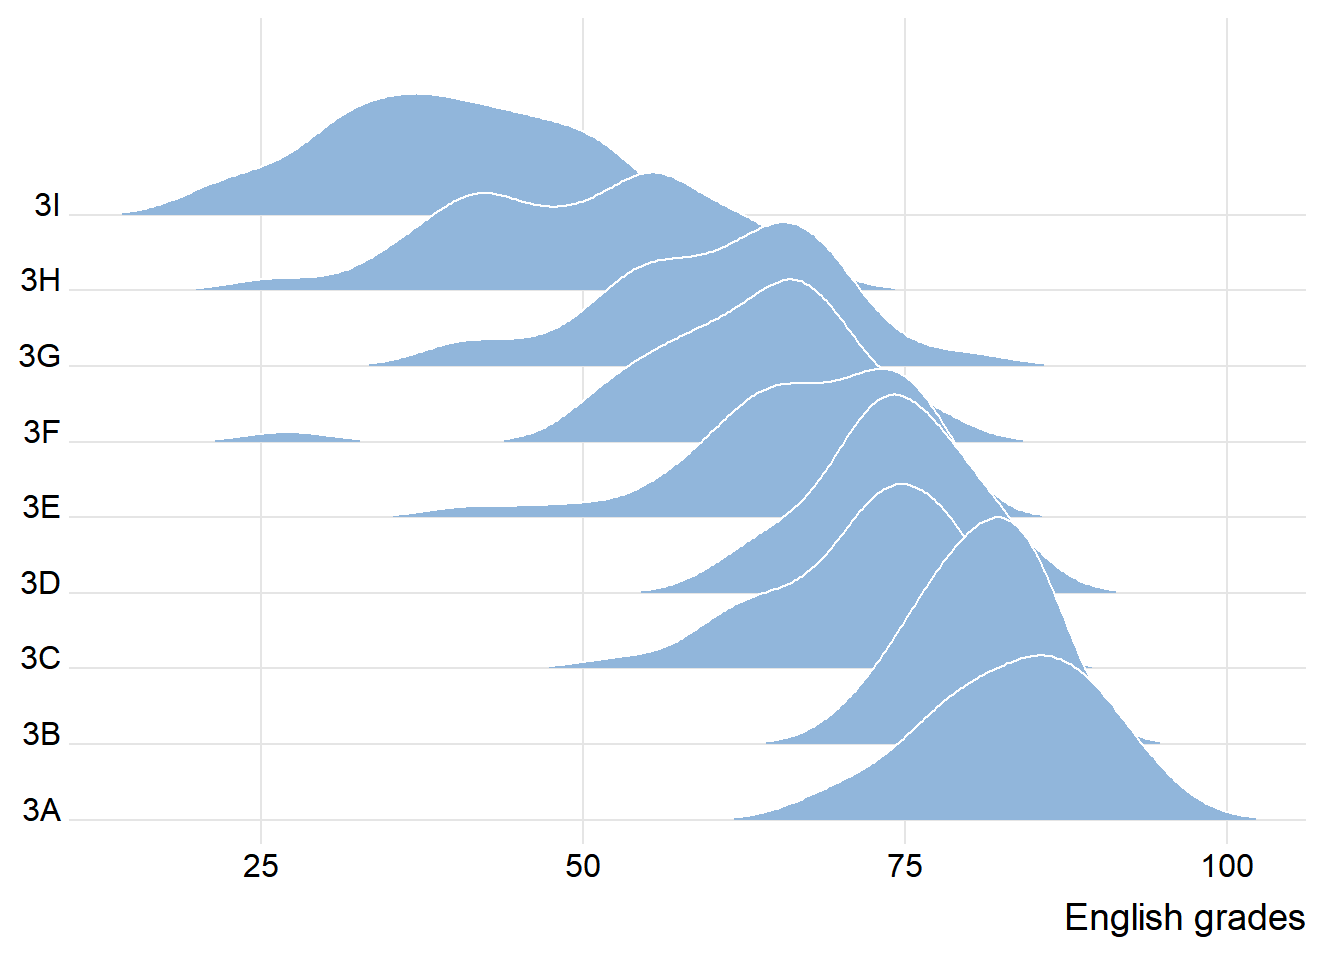
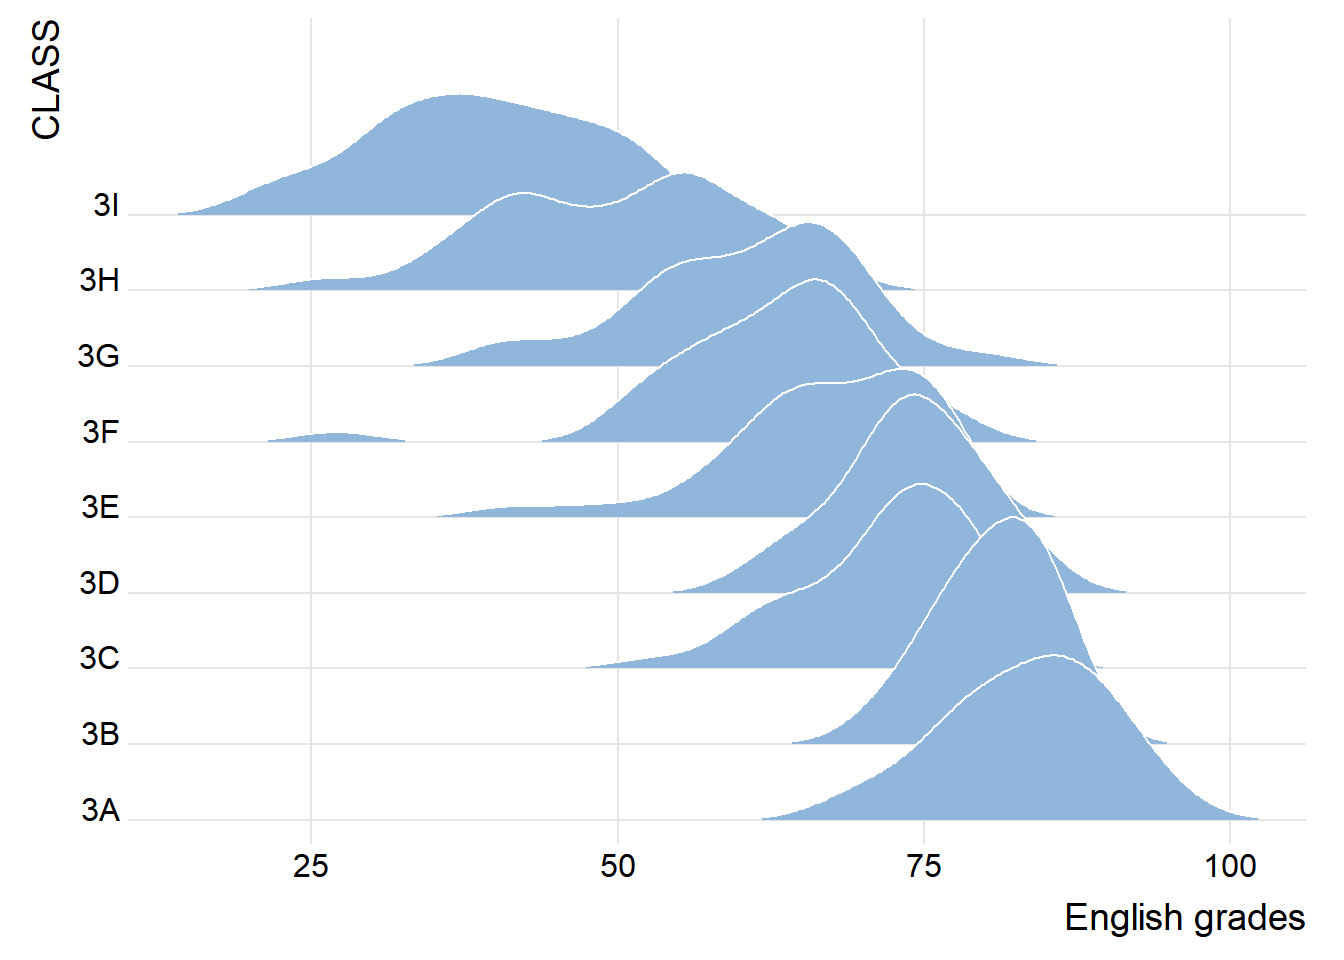
edit

diff --git a/_site/Hands-on_Ex/Hands-on_Ex04-2/Hands-on_Ex04-2.html b/_site/Hands-on_Ex/Hands-on_Ex04-2/Hands-on_Ex04-2.html
@@ -329,7 +329,7 @@ pre > code.sourceCode > span > a:first-child::before { text-decoration: underlin
     <div>
     <div class="quarto-title-meta-heading">Modified</div>
     <div class="quarto-title-meta-contents">
-      <p class="date-modified">May 7, 2025</p>
+      <p class="date-modified">May 10, 2025</p>
     </div>
   </div>
     
@@ -446,7 +446,7 @@ Note
 <span id="cb4-12"><a href="#cb4-12" aria-hidden="true" tabindex="-1"></a>    <span class="at">name =</span> <span class="st">"English grades"</span>,</span>
 <span id="cb4-13"><a href="#cb4-13" aria-hidden="true" tabindex="-1"></a>    <span class="at">expand =</span> <span class="fu">c</span>(<span class="dv">0</span>, <span class="dv">0</span>)</span>
 <span id="cb4-14"><a href="#cb4-14" aria-hidden="true" tabindex="-1"></a>    ) <span class="sc">+</span></span>
-<span id="cb4-15"><a href="#cb4-15" aria-hidden="true" tabindex="-1"></a>  <span class="fu">scale_y_discrete</span>(<span class="at">name =</span> <span class="cn">NULL</span>, <span class="at">expand =</span> <span class="fu">expansion</span>(<span class="at">add =</span> <span class="fu">c</span>(<span class="fl">0.2</span>, <span class="fl">2.6</span>))) <span class="sc">+</span></span>
+<span id="cb4-15"><a href="#cb4-15" aria-hidden="true" tabindex="-1"></a>  <span class="fu">scale_y_discrete</span>(<span class="at">name =</span> <span class="st">"CLASS"</span>, <span class="at">expand =</span> <span class="fu">expansion</span>(<span class="at">add =</span> <span class="fu">c</span>(<span class="fl">0.2</span>, <span class="fl">2.6</span>))) <span class="sc">+</span></span>
 <span id="cb4-16"><a href="#cb4-16" aria-hidden="true" tabindex="-1"></a>  <span class="fu">theme_ridges</span>()</span></code><button title="Copy to Clipboard" class="code-copy-button"><i class="bi"></i></button></pre></div>
 </details>
 <div class="cell-output-display">
@@ -494,7 +494,7 @@ Note
 <span id="cb5-10"><a href="#cb5-10" aria-hidden="true" tabindex="-1"></a>  <span class="fu">scale_x_continuous</span>(<span class="at">name =</span> <span class="st">"English grades"</span>,</span>
 <span id="cb5-11"><a href="#cb5-11" aria-hidden="true" tabindex="-1"></a>                     <span class="at">expand =</span> <span class="fu">c</span>(<span class="dv">0</span>,<span class="dv">0</span>)</span>
 <span id="cb5-12"><a href="#cb5-12" aria-hidden="true" tabindex="-1"></a>  ) <span class="sc">+</span></span>
-<span id="cb5-13"><a href="#cb5-13" aria-hidden="true" tabindex="-1"></a>  <span class="fu">scale_y_discrete</span>(<span class="at">name =</span> <span class="cn">NULL</span>, <span class="at">expand =</span> <span class="fu">expansion</span>(<span class="at">add =</span> <span class="fu">c</span>(<span class="fl">0.2</span>, <span class="fl">2.6</span>))) <span class="sc">+</span></span>
+<span id="cb5-13"><a href="#cb5-13" aria-hidden="true" tabindex="-1"></a>  <span class="fu">scale_y_discrete</span>(<span class="at">name =</span> <span class="st">"CLASS"</span>, <span class="at">expand =</span> <span class="fu">expansion</span>(<span class="at">add =</span> <span class="fu">c</span>(<span class="fl">0.2</span>, <span class="fl">2.6</span>))) <span class="sc">+</span></span>
 <span id="cb5-14"><a href="#cb5-14" aria-hidden="true" tabindex="-1"></a>    <span class="fu">theme_ridges</span>() <span class="sc">+</span></span>
 <span id="cb5-15"><a href="#cb5-15" aria-hidden="true" tabindex="-1"></a>  <span class="fu">ggtitle</span>(<span class="st">'Plasma'</span>)</span></code><button title="Copy to Clipboard" class="code-copy-button"><i class="bi"></i></button></pre></div>
 </details>
